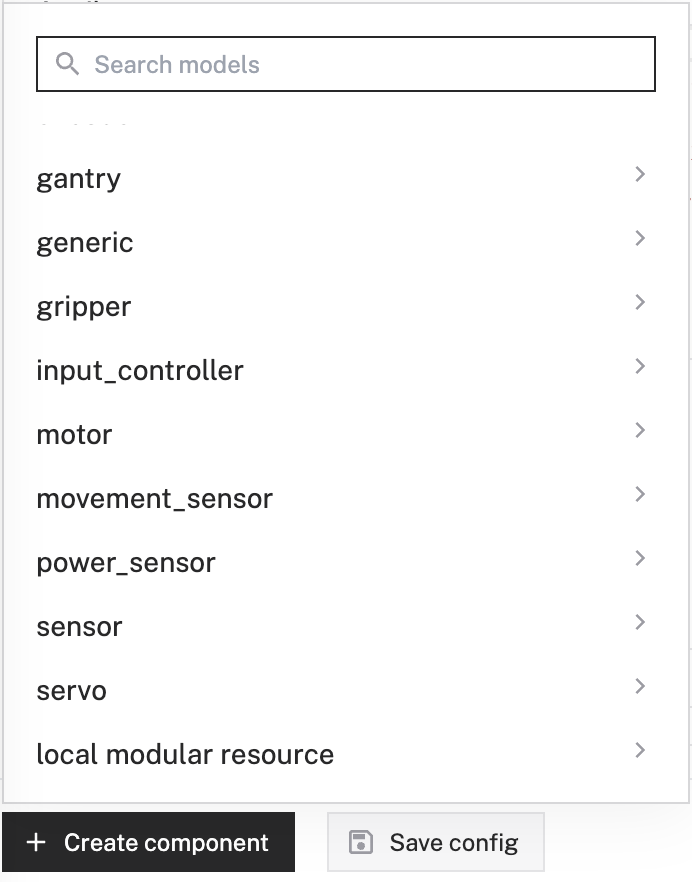
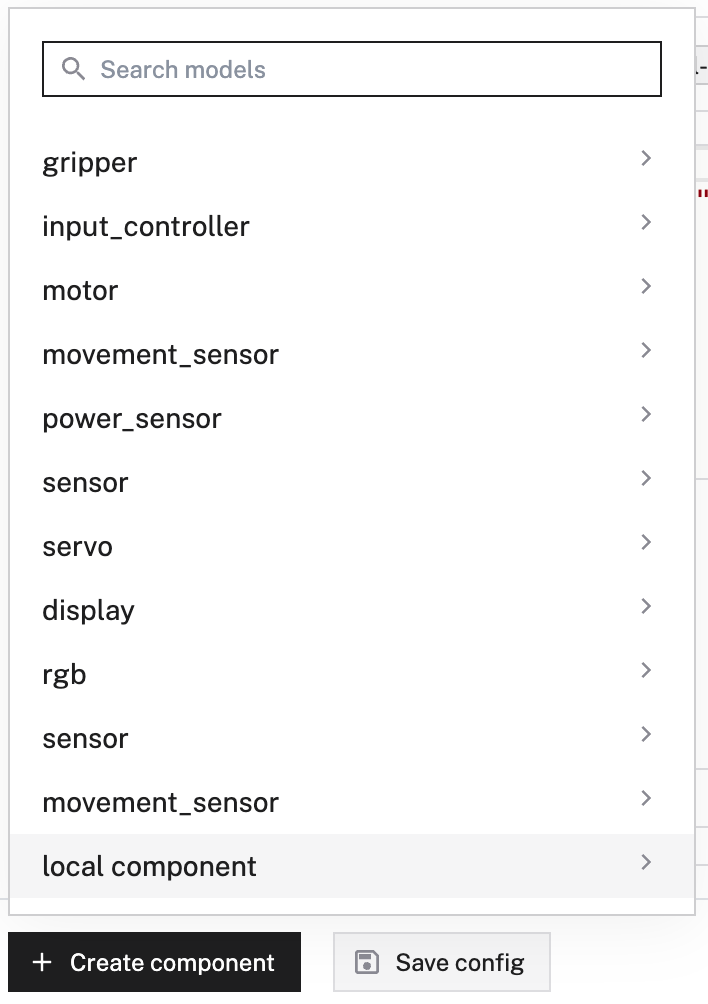
make change for local component or local service

diff --git a/docs/registry/configure.md b/docs/registry/configure.md
@@ -358,11 +358,11 @@ To add a local module on your robot:
    - If you are adding a modular [component](/components/), click the **Components** subtab and click **Create component**.
    - If you are adding a modular [service](/services/), click the **Services** subtab and click **Create service**.
 
-1. Then, select the `local modular resource` type from the list.
+1. Then, select the `local component` or `local service` type from the list.
 
-   {{<imgproc src="registry/configure/add-local-module-list.png" resize="300x" declaredimensions=true alt="The add a component modal showing the list of components to add with 'local modular resource' shown at the bottom">}}
+   {{<imgproc src="registry/configure/add-local-module-list.png" resize="300x" declaredimensions=true alt="The add a component modal showing the list of components to add with 'local component' shown at the bottom">}}
 
-1. On the next screen:
+2. On the next screen:
 
    - Select the type of modular resource provided by your module, such as a [camera](/components/camera/), from the dropdown menu.
    - Enter the {{< glossary_tooltip term_id="model-namespace-triplet" text="model namespace triplet">}} of your modular resource's {{< glossary_tooltip term_id="model" text="model" >}}.
@@ -372,7 +372,7 @@ To add a local module on your robot:
 
    {{<imgproc src="registry/configure/add-local-module-create.png" resize="400x" declaredimensions=true alt="The add a component modal showing the create a module step for an intel realsense module">}}
 
-1. Click **Create** to create the modular resource provided by the local module.
+3. Click **Create** to create the modular resource provided by the local module.
 
 You can also add the module directly, without first adding its modular component or service:
 
